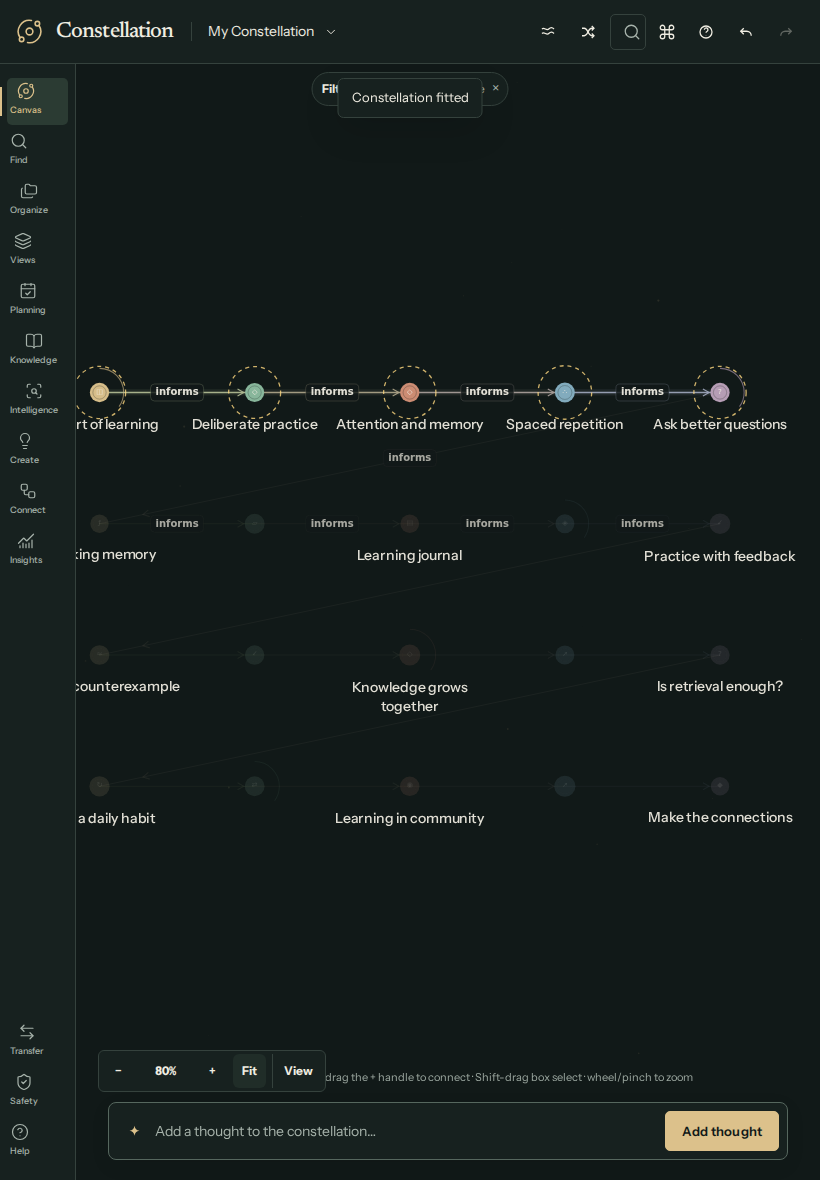
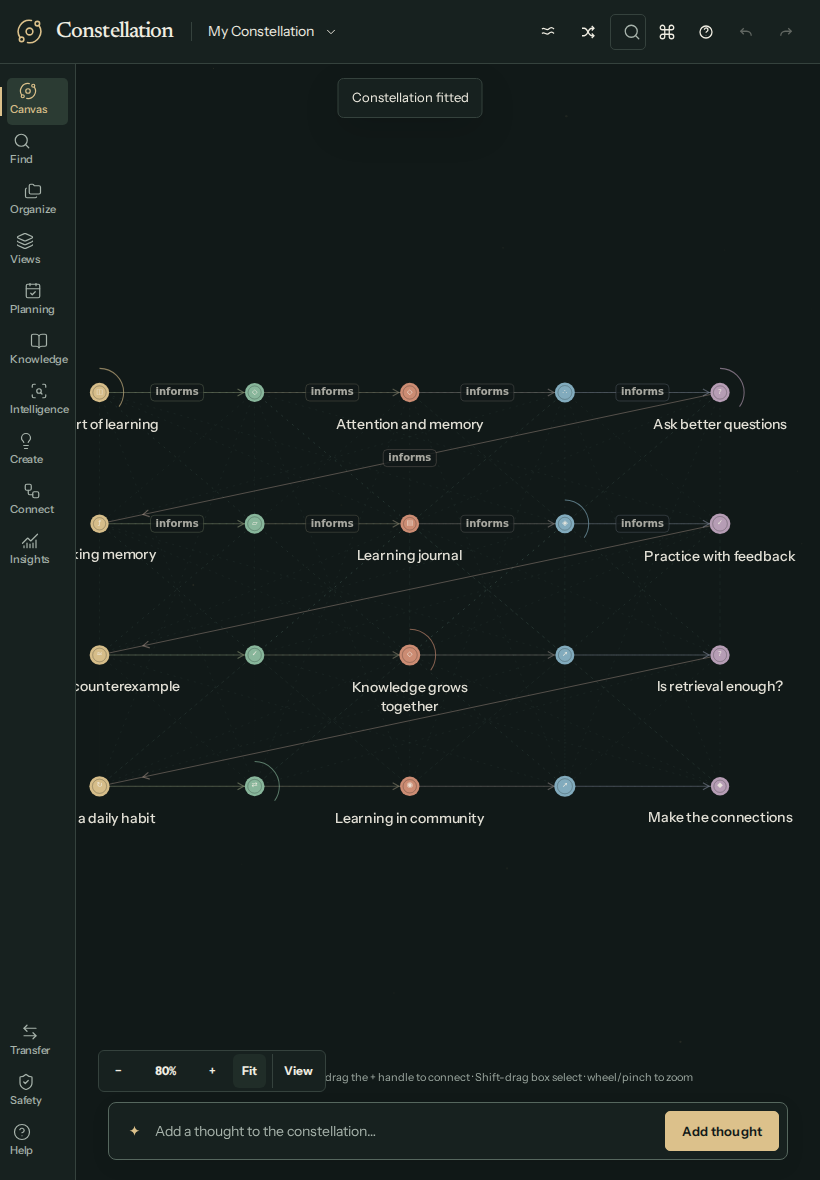
Separate canvas controls in compact landscapes and record visual QA

diff --git a/index.html b/index.html
@@ -966,6 +966,9 @@ body[data-ui-scale=large] :is(button,input,select,textarea){font-size:16px!impor
 
 .knowledge-pane-block{border:0!important;border-bottom:1px solid var(--line)!important;border-radius:0!important;background:none!important;padding:16px 0 24px!important;margin:0 0 20px!important}.knowledge-pane-block h4{font:400 23px/1.2 var(--font-editorial);margin:0 0 12px}.suggestion-row,.relation-row{border:0!important;border-bottom:1px solid var(--line)!important;border-radius:0!important;background:none!important;padding:12px 0!important}.planner-badge{white-space:nowrap;border-radius:4px;padding:4px 7px;flex:none}
 @media(min-width:761px) and (max-width:1100px){.desktop-rail button small{font-size:11px!important;letter-spacing:-.02em}}
+
+@media(min-width:761px) and (max-width:950px) and (max-height:550px){.composer-wrap{bottom:20px!important}.composer-wrap .hint{display:none}}
+@media(min-width:1101px) and (max-width:1280px){.canvas-tools{bottom:92px!important}}
 </style>
 </head>
 <body>

diff --git a/QA.md b/QA.md
@@ -13,6 +13,10 @@ npm test
 
 Node 22+; the suite owns its localhost server and disposable browser contexts. `PLAYWRIGHT_CHROMIUM_EXECUTABLE` optionally selects an installed binary. No test hook is embedded in production HTML. `test-results/results.json` records checks, screenshots, axe findings, overflow and graph measurements. GitHub Actions uploads that directory even on failure.
 
+## Recorded CI evidence
+
+[GitHub Actions run 35154861083](https://github.com/thiepn/constellation/actions/runs/35154861083) passed 41 browser checks and 19 source contracts, generating 118 screenshots with zero violations in the seven axe samples. The final landscape spacing follow-up also passed a dedicated six-viewport overlap check locally; the PR runs the full suite again on that follow-up.
+
 ## Functional scope
 
 - HTML script, service worker and manifest parse checks; duplicate main-document IDs.

diff --git a/docs/DESIGN.md b/docs/DESIGN.md
@@ -71,3 +71,7 @@ Screenshots use deterministic local test data. They show real application contro
 ![Tablet](visual/responsive-820x1180.png)
 
 ![Dense synthetic graph](visual/dense-graph.png)
+
+![Short landscape](visual/responsive-844x390.png)
+
+![Tablet inspector](visual/tablet-inspector.png)
